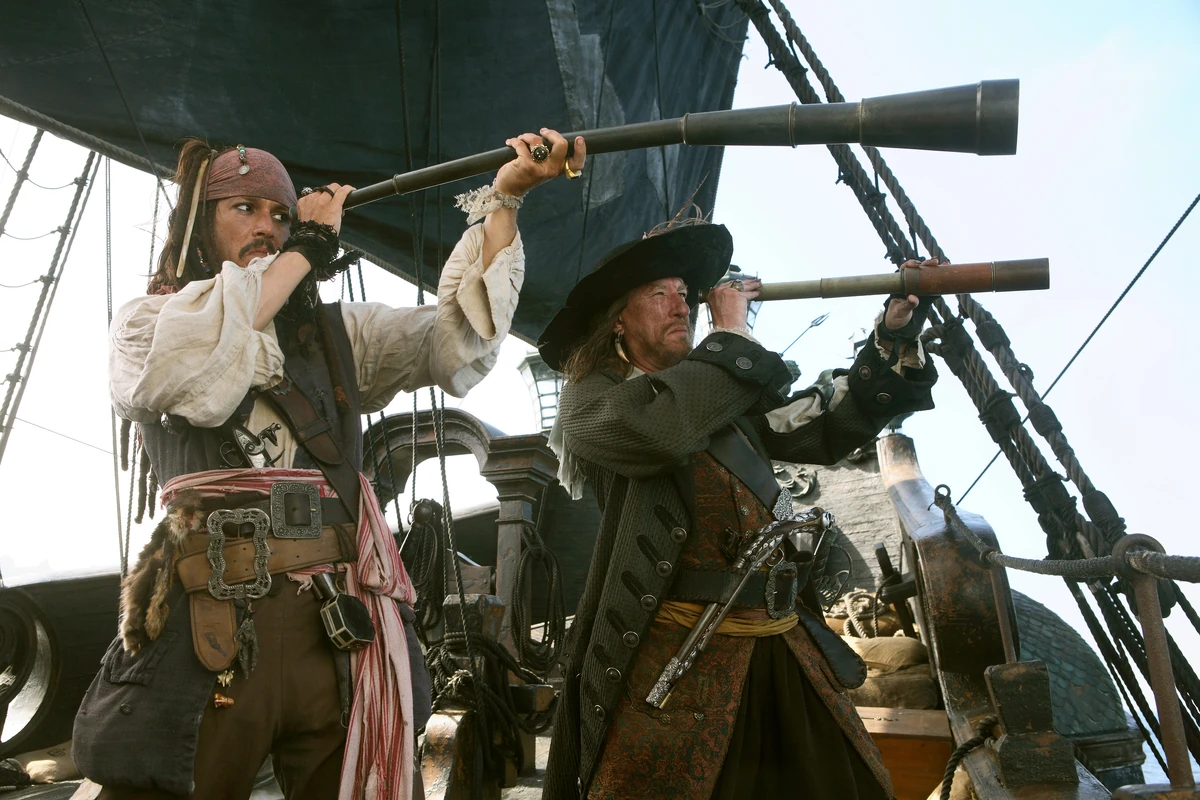
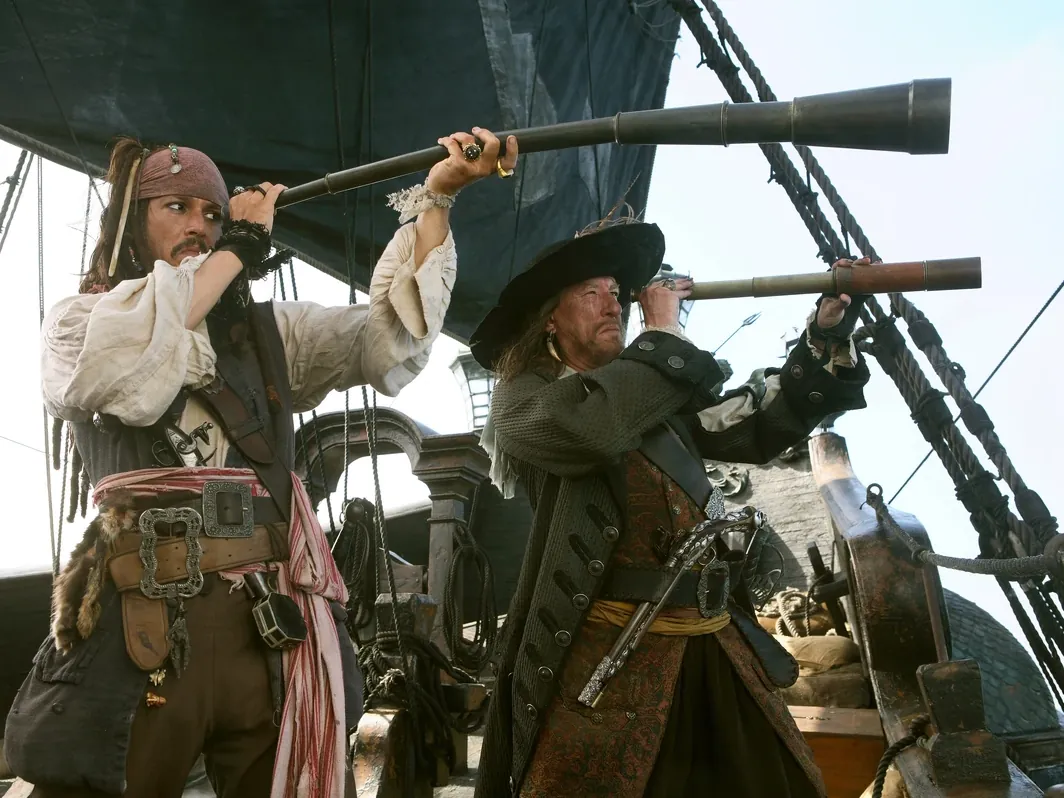
Standardize the site's images, on 12-line modules (#20)
* Standardize the site's images

Crop every photograph to its module's ratio, cap it at 1600 px on the long edge, convert to WebP with metadata stripped, and name it for the thing it belongs to. Trace the two mask icons to SVG, drop the square preview crops now that previews use the same module crop, and delete the unreferenced files.

* Flatten public/img and size the portrait to two module rows

* Use 12-line modules and a 16:25 tall slot

* Give the icon SVGs an intrinsic size

---------

diff --git a/data/projects.tsx b/data/projects.tsx
@@ -1,24 +1,21 @@
 import type { ReactNode } from "react";
 import FillingLink from "@/components/FillingLink";
-import type { ModuleImageSource } from "@/components/ModuleImage";
 
 /** A skill bullet, optionally with a nested list of sub-bullets. */
 export type SkillItem = string | { label: string; children: string[] };
-
-/** The square crop and short blurb a project is previewed with on the landing page. */
-export type ProjectPreview = { image: ModuleImageSource; blurb: string };
 
 export type Project = {
   id: string;
   title: string;
   subtitle?: ReactNode;
-  image: ModuleImageSource;
+  image: string;
   skills: SkillItem[];
   description: ReactNode;
-  preview?: ProjectPreview;
+  /** The short line a project is previewed with on the landing page, which only the previewed projects carry. */
+  previewBlurb?: string;
 };
 
-export type PreviewedProject = Project & { preview: ProjectPreview };
+export type PreviewedProject = Project & { previewBlurb: string };
 
 export const PROJECTS: Project[] = [
   {
@@ -26,7 +23,7 @@ export const PROJECTS: Project[] = [
     title: "Pitch Perfect",
     subtitle:
       "A hardware-accelerated real-time phase vocoder for pitch scaling, built on the Intel/Altera Cyclone V DE1-SOC FPGA",
-    image: { src: "/img/greenboard.png", width: 1200, height: 673 },
+    image: "/img/pitch.webp",
     skills: [
       {
         label: "Embedded System Design",
@@ -74,11 +71,8 @@ export const PROJECTS: Project[] = [
     id: "waves",
     title: "Sonic Canvas",
     subtitle: "A creative tool for quickly testing sound wave samples",
-    image: { src: "/img/soundwaves.png", width: 1200, height: 673 },
-    preview: {
-      image: { src: "/img/soundwaves.png", width: 1200, height: 673 },
-      blurb: "A creative tool for quickly testing sound wave samples.",
-    },
+    image: "/img/waves.webp",
+    previewBlurb: "A creative tool for quickly testing sound wave samples.",
     skills: [
       {
         label: "Digital audio",
@@ -108,7 +102,7 @@ export const PROJECTS: Project[] = [
     title: "Spyglass",
     subtitle:
       "An application for monitoring and validating SCTE-35 cues in MPEG-DASH and HLS video streams to ensure proper advertisement placement",
-    image: { src: "/img/spyglass.webp", width: 1200, height: 800 },
+    image: "/img/spyglass.webp",
     skills: [
       {
         label: "Digital video",
@@ -145,7 +139,7 @@ export const PROJECTS: Project[] = [
     title: "SyllableGPT",
     subtitle:
       "A generative large language model based on GPT, modified so that it tends to generate words with matching vowel sounds and rhyming syllables for better performance in writing poetry and song lyrics",
-    image: { src: "/img/syllablegpt.jpg", width: 2000, height: 1000 },
+    image: "/img/syllablegpt.webp",
     skills: [
       "Large Language Models",
       "HuggingFace Transformers",
@@ -172,12 +166,9 @@ export const PROJECTS: Project[] = [
     title: "Foghorn API",
     subtitle:
       "A tool for Software Engineers at Paramount to easily log messages to a unified location and recieve Slack alerts when sections of code are executed",
-    image: { src: "/img/foghorn.jpg", width: 1024, height: 680 },
-    preview: {
-      image: { src: "/img/foghornSquare.jpg", width: 680, height: 680 },
-      blurb:
-        "A tool for easily logging messages and recieving Slack notifications when sections of code are executed.",
-    },
+    image: "/img/foghorn.webp",
+    previewBlurb:
+      "A tool for easily logging messages and recieving Slack notifications when sections of code are executed.",
     skills: [
       "A variety of AWS Cloud Services (Lambda, API Gateway, IAM, CloudWatch, CloudFormation)",
       "Designing and creating a secure access management system",
@@ -196,16 +187,9 @@ export const PROJECTS: Project[] = [
     title: "RhymeNet",
     subtitle:
       "An English language database containing information about both words' phoenetic and written syllable divisions",
-    image: { src: "/img/rhymesHighlighted.jpg", width: 1280, height: 720 },
-    preview: {
-      image: {
-        src: "/img/rhymesHighlightedSquare.jpg",
-        width: 720,
-        height: 720,
-      },
-      blurb:
-        "An English language database containing information about words' phoenetic and written syllable divisions.",
-    },
+    image: "/img/rhymenet.webp",
+    previewBlurb:
+      "An English language database containing information about words' phoenetic and written syllable divisions.",
     skills: [
       "Database design and creation",
       "Linguistic theory (phonemes, syllabization, consonant clustering)",
@@ -234,12 +218,9 @@ export const PROJECTS: Project[] = [
         {` and I built a simulator of our favorite card game, Sheepshead, then trained an AI to play it using Monte Carlo Simulation and Deep Reinforcement Learning`}
       </>
     ),
-    image: { src: "/img/royalFlush.jpg", width: 1002, height: 668 },
-    preview: {
-      image: { src: "/img/royalFlushSquare.jpg", width: 668, height: 668 },
-      blurb:
-        "A simulator of my favorite card game, Sheepshead, and an AI to play it using Monte Carlo Simulation and Deep Reinforcement Learning.",
-    },
+    image: "/img/sheepshead.webp",
+    previewBlurb:
+      "A simulator of my favorite card game, Sheepshead, and an AI to play it using Monte Carlo Simulation and Deep Reinforcement Learning.",
     skills: [
       "AI game playing",
       "Deep Reinforcement Learning",
@@ -264,7 +245,7 @@ export const PROJECTS: Project[] = [
     title: "MIDI Interpreter",
     subtitle:
       "A program allowing me to customize the inputs programs interpret from my MIDI keyboard so I can use it for keyboard shortcuts",
-    image: { src: "/img/midiKeyboard.jpg", width: 2560, height: 1707 },
+    image: "/img/midi-interpreter.webp",
     skills: [
       "Linux Kernel",
       "Operating Systems",
@@ -284,7 +265,7 @@ export const PROJECTS: Project[] = [
     title: "Image Captioner",
     subtitle:
       "For the final project for my Natural Language Processing class, I built an image caption generator",
-    image: { src: "/img/towerOfBabel.jpg", width: 1200, height: 878 },
+    image: "/img/image-captioner.webp",
     skills: [
       "Computer Vision with CNNs",
       "Stacked/Deep Bidirectional Recurrent Neural Networks",
@@ -301,7 +282,7 @@ export const PROJECTS: Project[] = [
     id: "walking-robot",
     title: "Walking Robot",
     subtitle: "A built-from-scratch robot made as part of Columbia's Robotics Studio",
-    image: { src: "/img/walkingRobotRender.jpg", width: 2048, height: 1536 },
+    image: "/img/walking-robot.webp",
     skills: [
       "Robotic Movement",
       "Solidworks",
@@ -325,7 +306,7 @@ export const PROJECTS: Project[] = [
     title: "Neural Network",
     subtitle:
       "To gain a better understanding of deep learning, I built a neural network from scratch",
-    image: { src: "/img/neuralNetwork.jpg", width: 1024, height: 768 },
+    image: "/img/neural-network.webp",
     skills: [
       "Neural networks and deep learning",
       "Numpy and Pandas",
@@ -345,7 +326,7 @@ export const PROJECTS: Project[] = [
     title: "Tech Strategy Internship",
     subtitle:
       "During the summer of 2022, I was an intern at Paramount on the Technology Strategy team",
-    image: { src: "/img/paramountLogo.jpg", width: 1200, height: 627 },
+    image: "/img/paramount-tech-strategy.webp",
     skills: [
       "Innovation strategy",
       "SAFe Agile",
@@ -366,7 +347,7 @@ export const PROJECTS: Project[] = [
     title: "Sonar Internship",
     subtitle:
       "After my first year of college, I was a Product Manager and Software Engineer intern at Sonar, a digital health startup",
-    image: { src: "/img/sonarPhoto.jpg", width: 1920, height: 1600 },
+    image: "/img/sonar.webp",
     skills: [
       "Product Management",
       "Competitive analysis",
@@ -386,7 +367,7 @@ export const PROJECTS: Project[] = [
   {
     id: "this-website",
     title: "This Website",
-    image: { src: "/img/websiteScreenshot.png", width: 2880, height: 1638 },
+    image: "/img/this-website.webp",
     skills: ["HTML and CSS", "JavaScript", "Bootstrap", "Design with Figma"],
     description: (
       <p>
@@ -401,5 +382,5 @@ export const PROJECTS: Project[] = [
 ];
 
 export const PREVIEWED_PROJECTS: PreviewedProject[] = PROJECTS.filter(
-  (project): project is PreviewedProject => project.preview !== undefined,
+  (project): project is PreviewedProject => project.previewBlurb !== undefined,
 );

diff --git a/components/ModuleImage.tsx b/components/ModuleImage.tsx
@@ -1,12 +1,21 @@
 import Image from "next/image";
 import styles from "./ModuleImage.module.css";
 
-export type ModuleImageSource = { src: string; width: number; height: number };
+/*
+ * Every photograph in `public/img` is cropped to a module's ratio when it is
+ * added, so the dimensions `next/image` asks for follow from the orientation
+ * rather than the file. They describe the ratio and the ceiling, not the file's
+ * own pixels: an image whose source is smaller than the ceiling keeps its own
+ * resolution instead of being upscaled, and the crop below sizes the element
+ * either way.
+ */
+const WIDE_SIZE = { width: 1600, height: 1200 };
+const TALL_SIZE = { width: 1024, height: 1600 };
 
 type ModuleImageProps = {
-  image: ModuleImageSource;
+  src: string;
   alt: string;
-  /** Crop to a portrait module instead of a landscape one. */
+  /** Crop to a portrait, two module rows tall, instead of a single module. */
   tall?: boolean;
   className?: string;
 };
@@ -17,18 +26,20 @@ type ModuleImageProps = {
  * overlay, so every image on the site reads as the same blue.
  */
 export default function ModuleImage({
-  image,
+  src,
   alt,
   tall,
   className = "",
 }: ModuleImageProps) {
+  const { width, height } = tall ? TALL_SIZE : WIDE_SIZE;
+
   return (
     <figure className={`${styles.frame} relative isolate m-0 ${className}`}>
       <Image
-        src={image.src}
+        src={src}
         alt={alt}
-        width={image.width}
-        height={image.height}
+        width={width}
+        height={height}
         className={tall ? styles.cropTall : styles.crop}
       />
       <span

diff --git a/components/ModuleImage.module.css b/components/ModuleImage.module.css
@@ -2,9 +2,11 @@
  * A cropped image that fills its column: as close to the module's 4:3 as the
  * grid allows, while its height stays a whole number of lines so the rhythm
  * survives fluid column widths. Where the columns are fixed this lands on 4:3
- * exactly. The crop measures against `.frame`, and falls back to a plain 4:3
- * crop without round(). `.cropTall` is the portrait counterpart, a module
- * turned on its side.
+ * exactly. The crop measures against `.frame`, and falls back to the plain
+ * ratio without round().
+ *
+ * `.cropTall` is the portrait counterpart, two module rows and the gutter
+ * between them tall: 25 lines against a column's 16, hence 16:25.
  */
 .frame {
   container-type: inline-size;
@@ -19,7 +21,7 @@
 
 .cropTall {
   inline-size: 100%;
-  aspect-ratio: 3 / 4;
-  block-size: round(nearest, calc(4 / 3 * 100cqw), var(--line));
+  aspect-ratio: 16 / 25;
+  block-size: round(nearest, calc(25 / 16 * 100cqw), var(--line));
   object-fit: cover;
 }

diff --git a/app/about/page.tsx b/app/about/page.tsx
@@ -8,11 +8,7 @@ export const metadata: Metadata = {
   title: "About | Steven Winnick",
 };
 
-const GRADUATION_PHOTO = {
-  src: "/img/graduation.jpg",
-  width: 4160,
-  height: 6240,
-};
+const GRADUATION_PHOTO = "/img/graduation.webp";
 
 export default function AboutPage() {
   return (
@@ -31,14 +27,14 @@ export default function AboutPage() {
        * alt text.
        */}
       <ModuleImage
-        image={GRADUATION_PHOTO}
+        src={GRADUATION_PHOTO}
         alt="Steven Winnick at his Columbia University graduation"
         tall
         className="col-start-2 col-end-4 self-start cols2:col-end-3 cols4:row-start-2 cols4:row-end-4"
       />
 
       <ModuleImage
-        image={GRADUATION_PHOTO}
+        src={GRADUATION_PHOTO}
         alt=""
         tall
         className="hidden self-start cols4:col-start-5 cols4:col-end-6 cols4:row-start-3 cols4:row-end-4 cols4:block"

diff --git a/app/globals.css b/app/globals.css
@@ -45,7 +45,7 @@
  */
 :root {
   --line: calc(var(--text-sm) * var(--leading-body));
-  --grid-module-lines: 10;
+  --grid-module-lines: 12;
   --grid-gutter: var(--line);
   --grid-col: calc(4 / 3 * var(--grid-module-lines) * var(--line));
   /* One row of modules, the vertical counterpart of --grid-col. */
@@ -94,15 +94,15 @@
    * custom properties. `cols2` is two columns and the three gutters around
    * them, `cols4` is four columns and their five gutters.
    */
-  --breakpoint-cols2: 44.5rem;
-  --breakpoint-cols4: 87.5rem;
+  --breakpoint-cols2: 52.5rem;
+  --breakpoint-cols4: 103.5rem;
 }
 
 /*
  * The larger display step, from `cols2` up. The width is spelled out because a
  * plain media query cannot read `--breakpoint-cols2`.
  */
-@media (width >= 44.5rem) {
+@media (width >= 52.5rem) {
   :root {
     --text-h3: 1.25rem;
     --text-h2: 2rem;

diff --git a/components/ProjectSection.tsx b/components/ProjectSection.tsx
@@ -45,7 +45,7 @@ export default function ProjectSection({ project }: { project: Project }) {
         <h2 className="col-main row-start-1 rows-1 text-h3">{project.title}</h2>
 
         <ModuleImage
-          image={project.image}
+          src={project.image}
           alt={project.title}
           className="col-start-1 col-end-3 row-start-2 self-start cols2:col-start-2 cols2:col-end-3 cols4:col-start-1 cols4:col-end-2"
         />
@@ -60,7 +60,7 @@ export default function ProjectSection({ project }: { project: Project }) {
 
         {/* A repeat of the shot above, so it carries no alt text. */}
         <ModuleImage
-          image={project.image}
+          src={project.image}
           alt=""
           className={`hidden self-start cols2:col-start-1 cols2:col-end-2 cols2:block cols4:col-start-4 cols4:col-end-5 ${secondShotRow}`}
         />

diff --git a/app/page.tsx b/app/page.tsx
@@ -58,11 +58,8 @@ export default function HomePage() {
                 className="col-span-2 flex min-w-0 flex-col gap-line text-inherit no-underline cols2:col-span-1 cols4:row-span-3 cols4:grid cols4:grid-rows-subgrid"
               >
                 <h3 className="lines-1">{project.title}</h3>
-                <ModuleImage
-                  image={project.preview.image}
-                  alt={project.title}
-                />
-                <p className="min-rows-1 text-sm">{project.preview.blurb}</p>
+                <ModuleImage src={project.image} alt={project.title} />
+                <p className="min-rows-1 text-sm">{project.previewBlurb}</p>
               </Link>
             ))}
           </div>

diff --git a/data/navigation.ts b/data/navigation.ts
@@ -27,11 +27,11 @@ export const SOCIAL_LINKS: SocialLink[] = [
   {
     href: "https://linkedin.com/in/stevenwinnick",
     label: "LinkedIn",
-    icon: "/img/linkedin.png",
+    icon: "/img/linkedin.svg",
   },
   {
     href: "https://github.com/stevenwinnick",
     label: "GitHub",
-    icon: "/img/github.png",
+    icon: "/img/github.svg",
   },
 ];

diff --git a/README.md b/README.md
@@ -32,6 +32,15 @@ npm run serve   # serves the built `out/` directory locally
 - `app/globals.css` — global shared CSS
 - `public/` — static assets (images, fonts, `CNAME`, `.nojekyll`)
 
+## Images
+
+The static export runs no image optimization, so every file in `public/img` is served exactly as it is committed and has to be prepared before it lands here:
+
+- **Cropped to its slot on the grid.** `ModuleImage` renders a photograph in one 4:3 module, or with `tall` in a portrait two module rows deep, which the grid makes 16:25. The file is cropped to that ratio and the component derives the dimensions from it, so no image carries its own width and height
+- **Capped at 1600 px on the long edge**, roughly 2x the widest a module ever renders. A source smaller than that is left alone rather than upscaled
+- **WebP at quality 80**, with metadata stripped. Icons painted as CSS masks are SVG, where only the shape matters
+- **Named for what it belongs to**, in kebab-case, flat in `public/img`. A project's photograph takes the project's own `id` from `data/projects.tsx`
+
 ## Deployment
 
 Pushing to `main` triggers `.github/workflows/deploy.yml`, which builds the static export and publishes it to GitHub Pages. The GitHub Pages source must be set to **GitHub Actions** in the repository settings (Settings → Pages → Build and deployment → Source).
